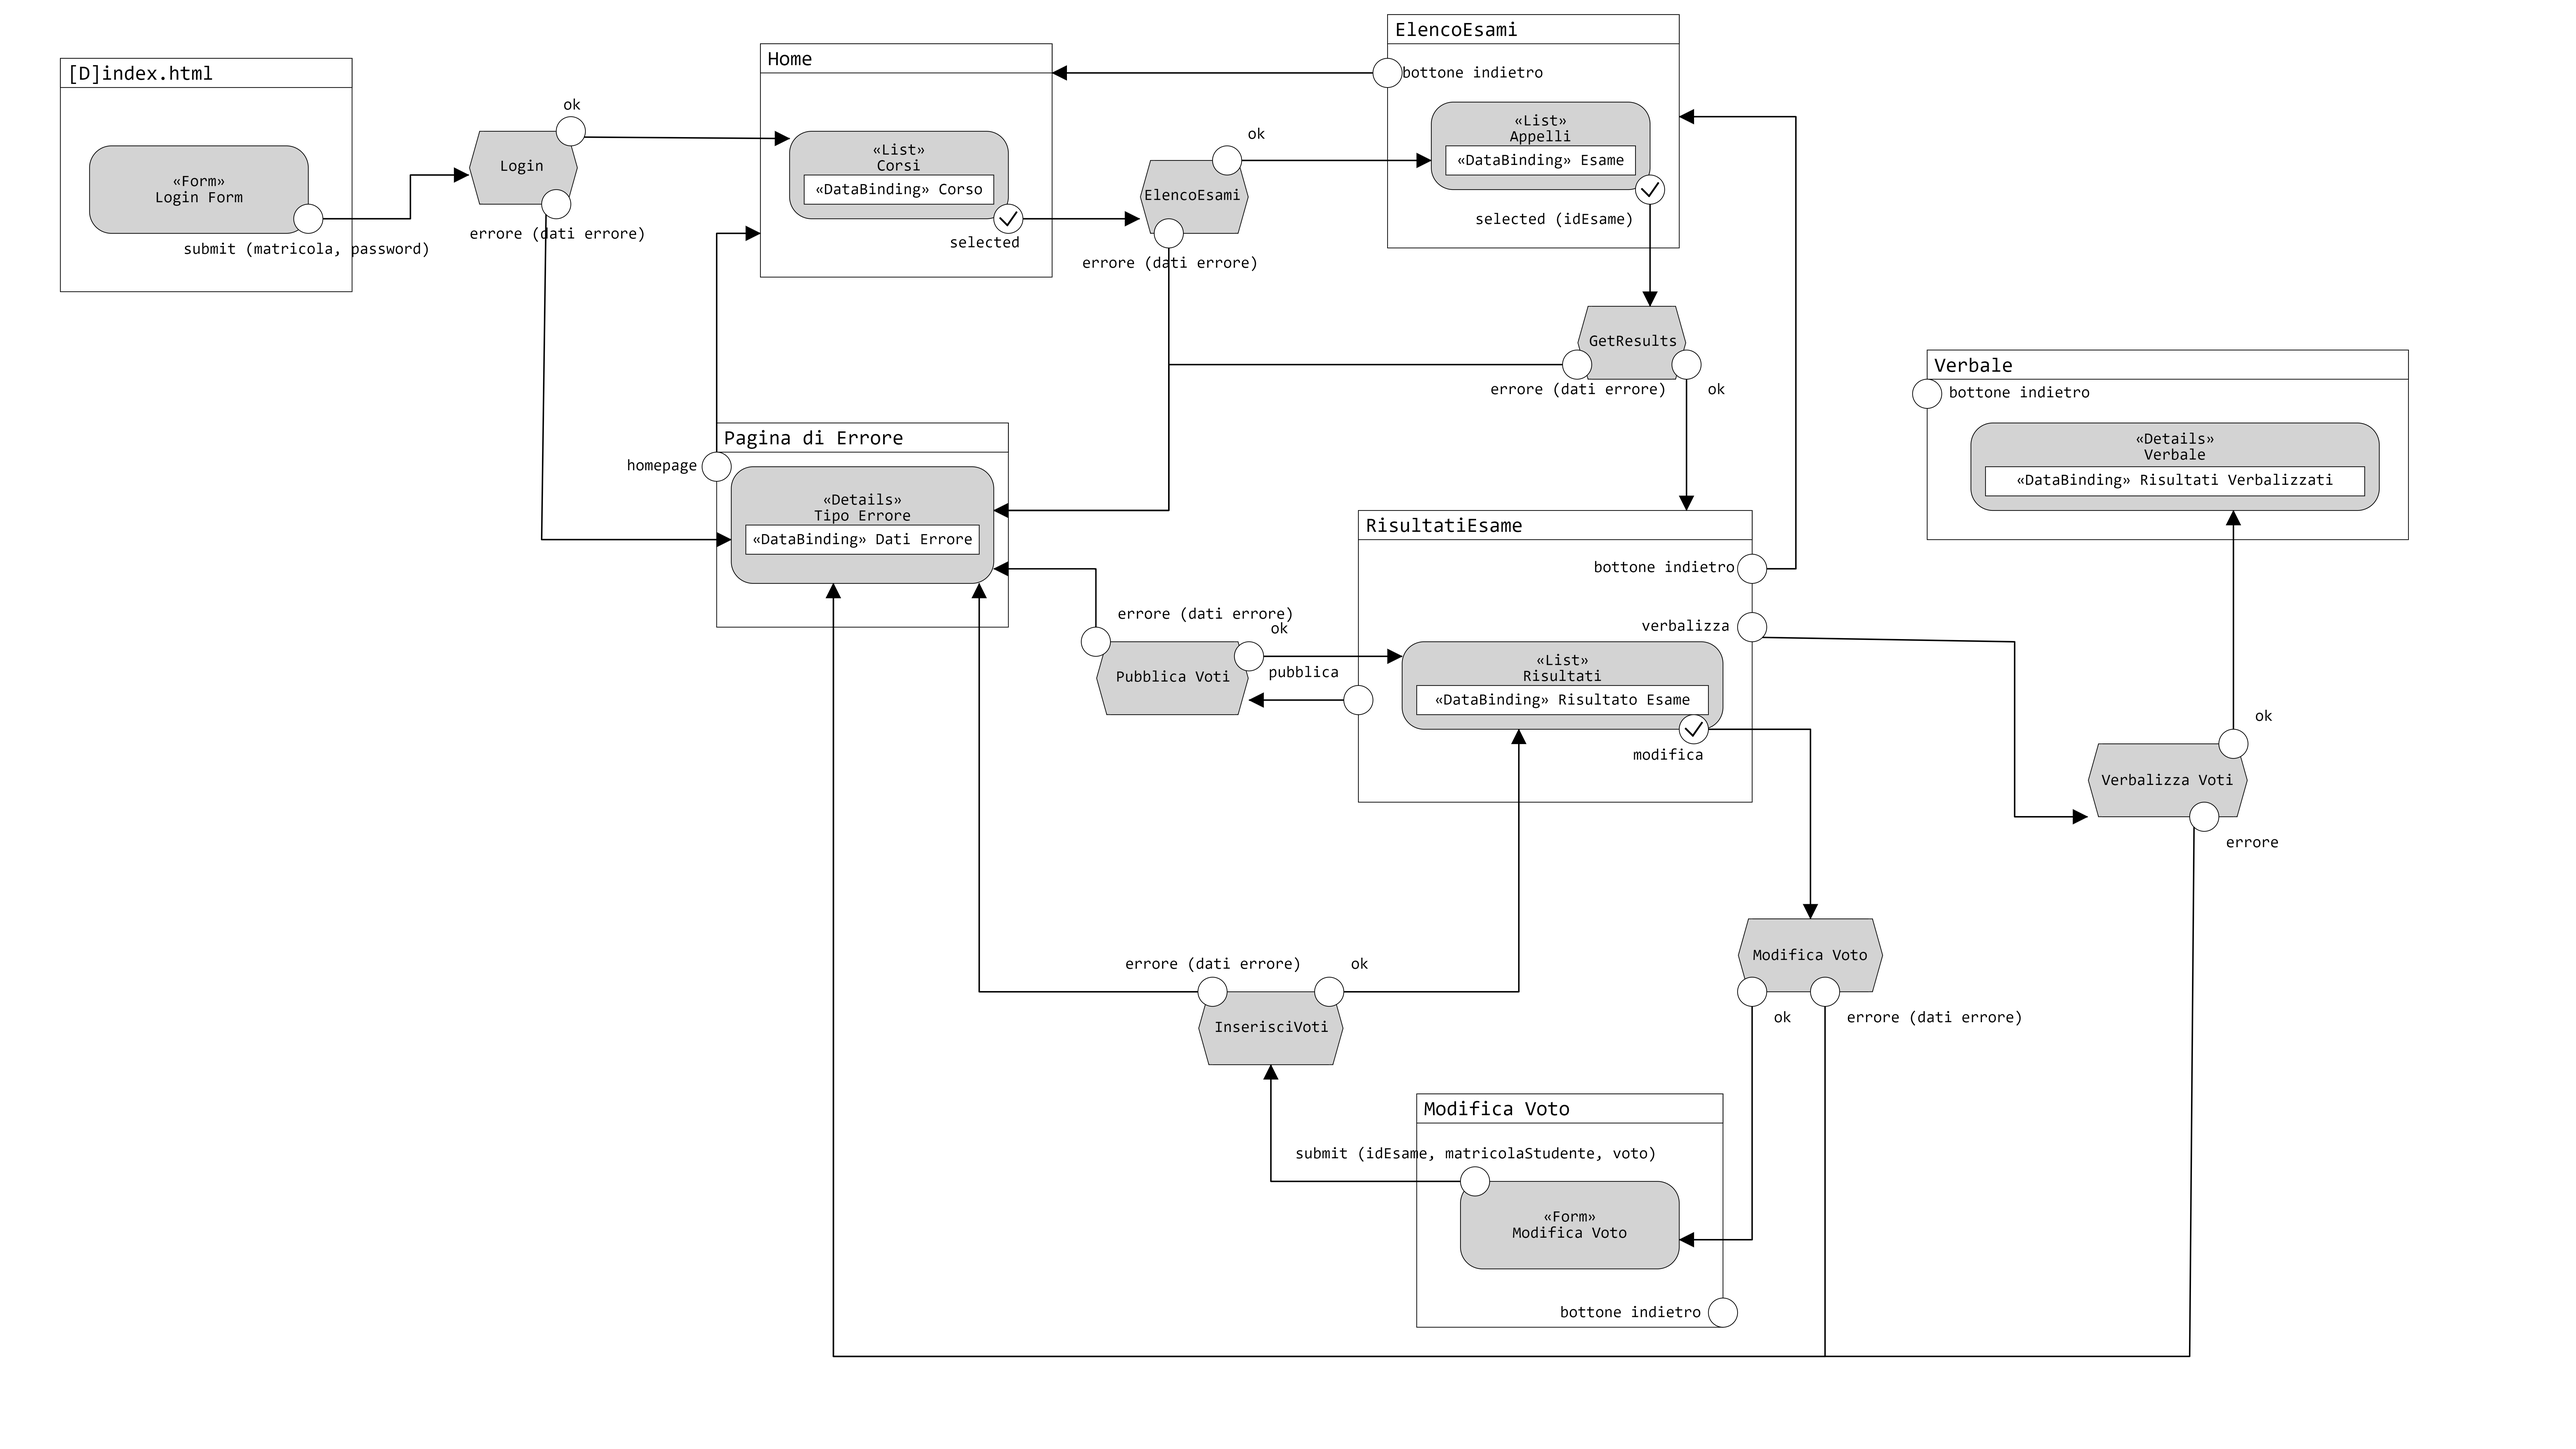
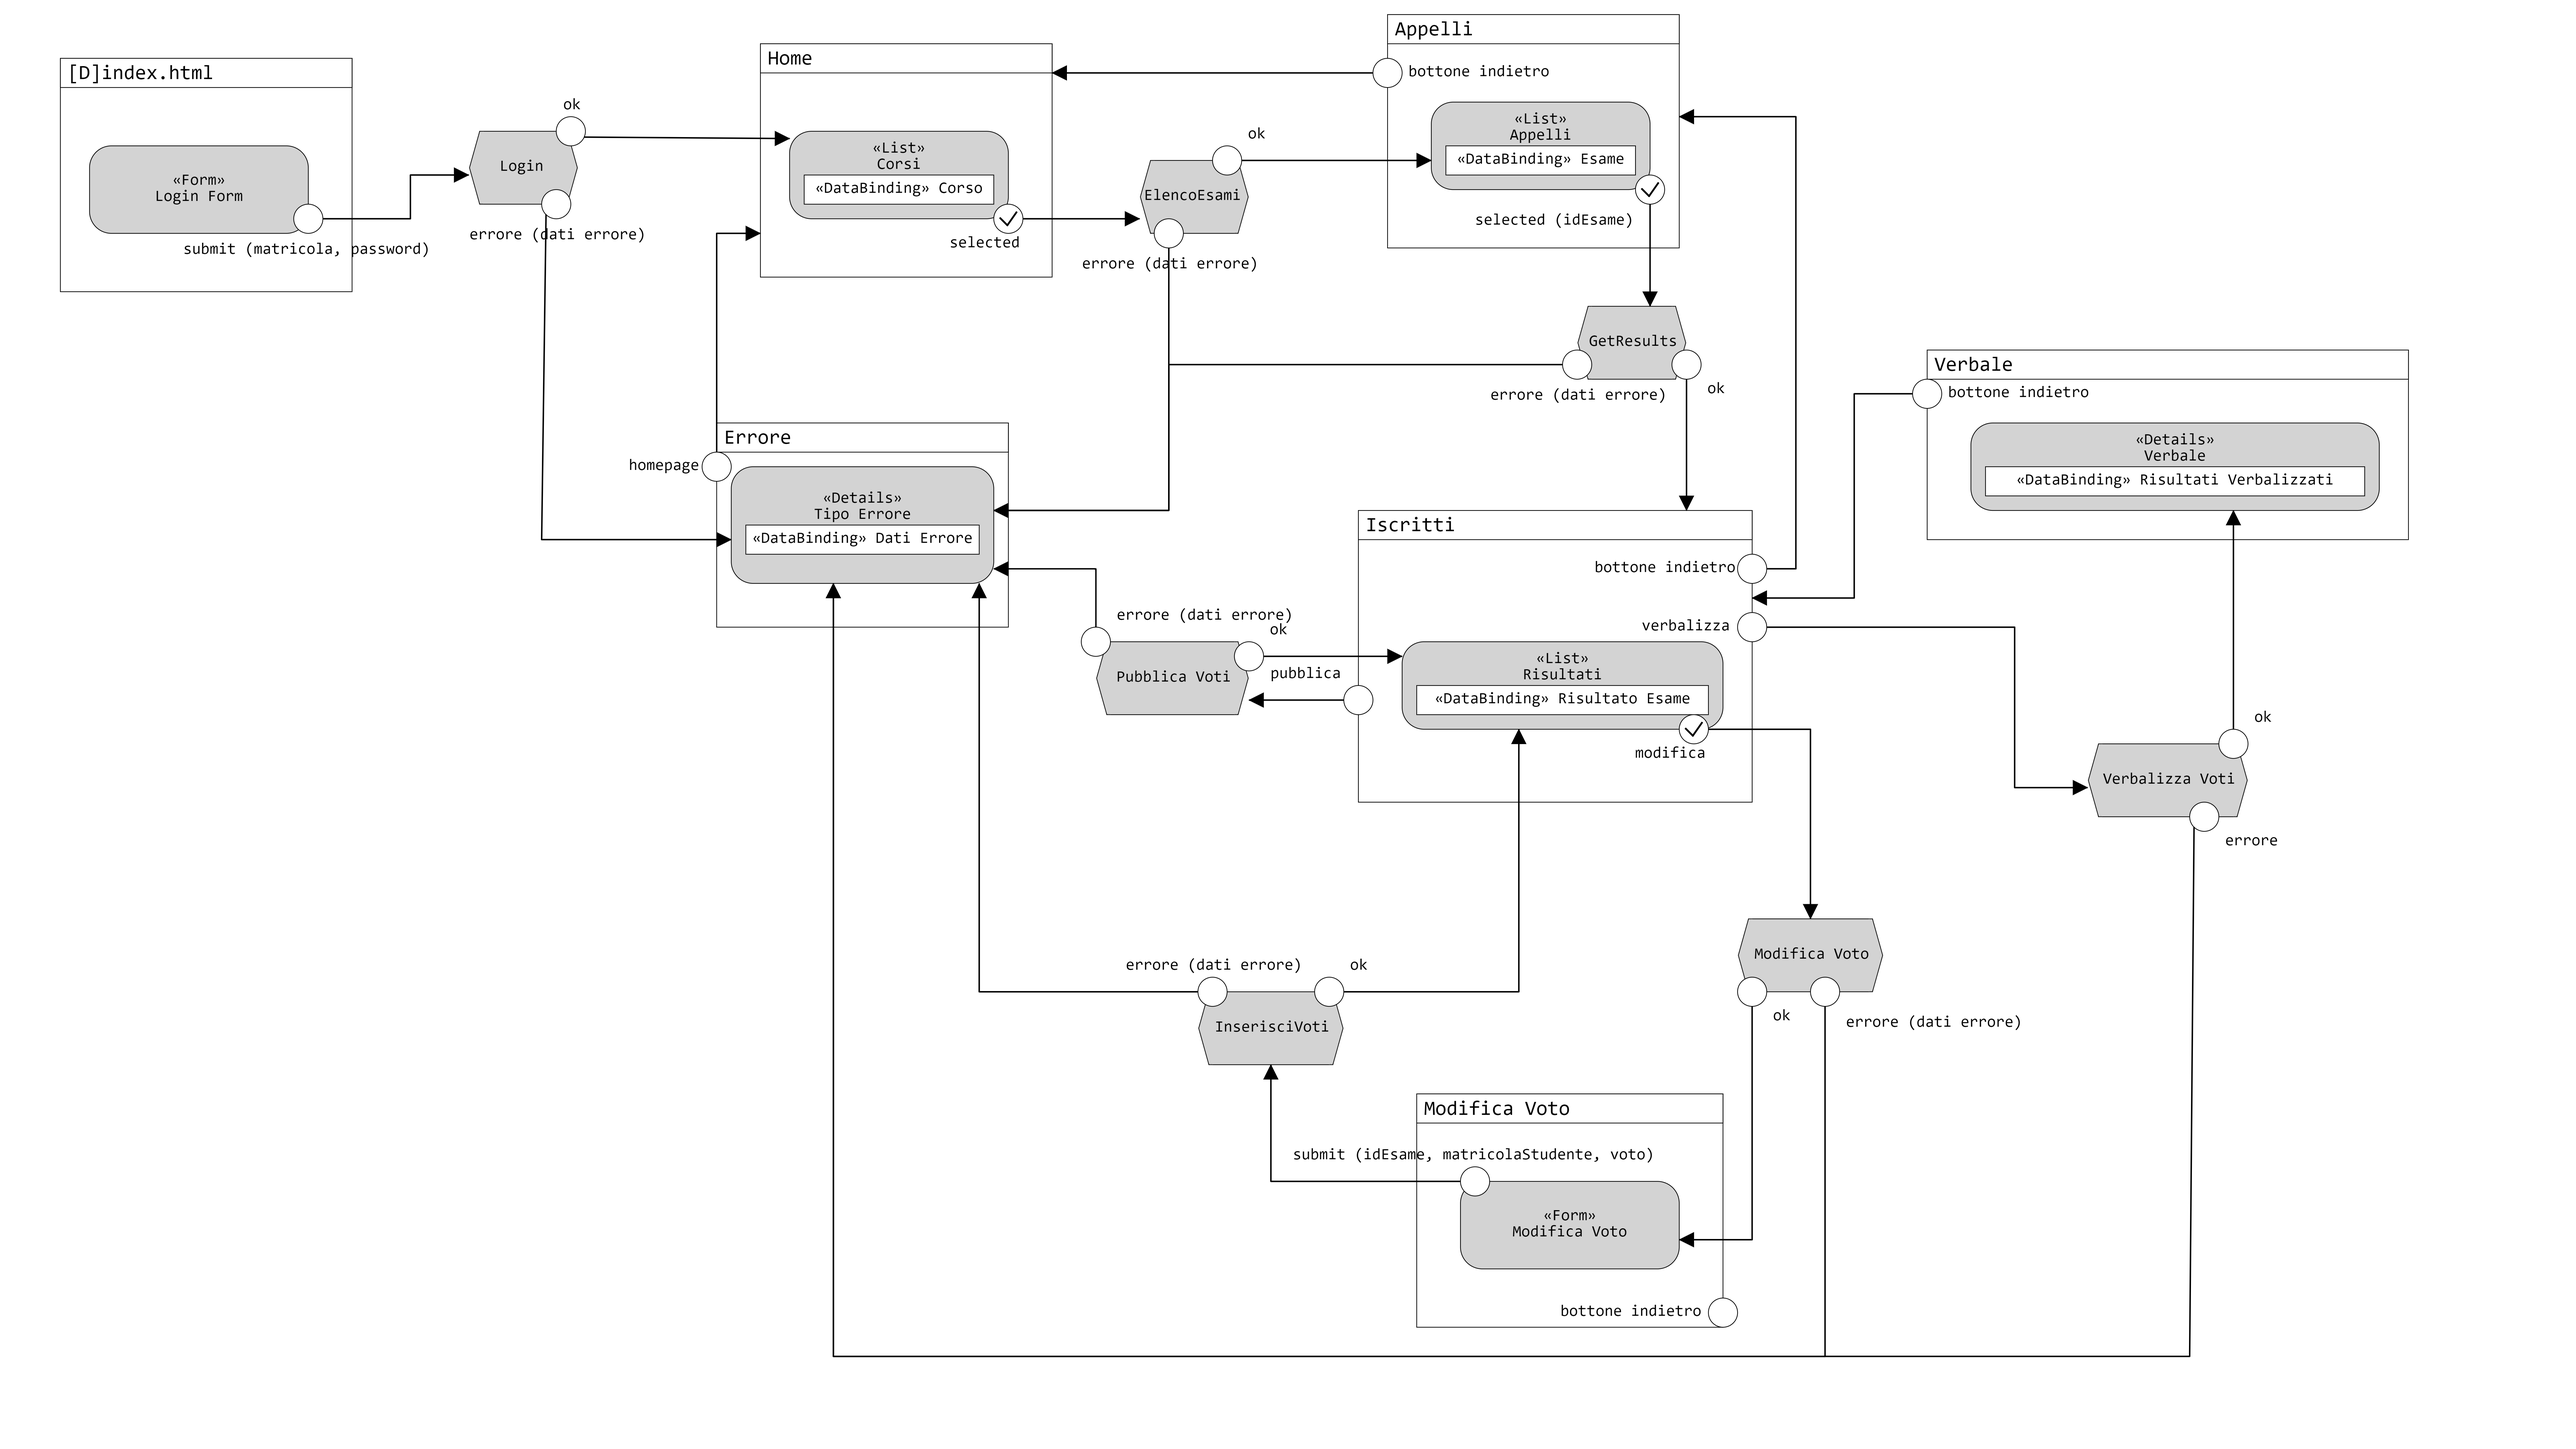
Refactoring

diff --git a/HTMLVersion/WebContent/Templates/RisultatiEsame.html b/HTMLVersion/WebContent/Templates/RisultatiEsame.html
@@ -1,7 +1,7 @@
 <!DOCTYPE html>
 <html xmlns:th="http://www.thymeleaf.org">
 <head>
-<title>Esito</title>
+<title th:text="${#strings.equals(session.user.ruolo,'teacher') ? 'Iscritti' : 'Esito'}">Esito</title>
   <meta http-equiv="Content-Type" content="text/html; charset=UTF-8" />
   <meta name="viewport" content="width=device-width, initial-scale=1">
   <link rel="stylesheet" href="https://maxcdn.bootstrapcdn.com/bootstrap/3.4.1/css/bootstrap.min.css">
@@ -11,8 +11,6 @@
   <link rel="stylesheet" href="https://cdnjs.cloudflare.com/ajax/libs/font-awesome/5.15.3/css/all.min.css">
 </head>
 <body>
-<!-- PROVA -->
-
   
 <nav class="navbar navbar-default navbar-fixed-top">
   <div class="navbar-header">
@@ -39,7 +37,7 @@
       <div class="jumbotron" id="title">
         <h3>
           <a th:href="@{/ElencoEsami(nomeCorso=${risultati[0].corso.nome})}"><i class="fas fa-chevron-left back-btn"></i></a>
-          Esito
+          <span th:text="${#strings.equals(session.user.ruolo,'teacher') ? 'Iscritti' : 'Esito'}"></span>
         </h3>
       </div>
       

diff --git a/HTMLVersion/WebContent/Templates/ElencoEsami.html b/HTMLVersion/WebContent/Templates/ElencoEsami.html
@@ -1,7 +1,7 @@
 <!DOCTYPE html>
 <html xmlns:th="http://www.thymeleaf.org">
 <head>
-<title>Home</title>
+<title>Appelli</title>
   <meta http-equiv="Content-Type" content="text/html; charset=UTF-8" />
   <meta name="viewport" content="width=device-width, initial-scale=1">
   <link rel="stylesheet" href="https://maxcdn.bootstrapcdn.com/bootstrap/3.4.1/css/bootstrap.min.css">
@@ -37,7 +37,7 @@
       <div class="jumbotron">
         <h3>
             <a th:href="@{/Home}"><i class="fas fa-chevron-left back-btn"></i></a>
-        	I tuoi esami
+        	Appelli
         </h3>
       </div>
       

diff --git a/HTMLVersion/WebContent/Templates/PaginaErrore.html b/HTMLVersion/WebContent/Templates/PaginaErrore.html
@@ -1,7 +1,7 @@
 <!DOCTYPE html>
 <html xmlns:th="http://www.thymeleaf.org">
 <head>
-<title>Home</title>
+<title>Errore</title>
   <meta http-equiv="Content-Type" content="text/html; charset=UTF-8" />
   <meta name="viewport" content="width=device-width, initial-scale=1">
   <link rel="stylesheet" href="https://maxcdn.bootstrapcdn.com/bootstrap/3.4.1/css/bootstrap.min.css">

diff --git a/HTMLVersion/WebContent/Templates/Home.html b/HTMLVersion/WebContent/Templates/Home.html
@@ -35,7 +35,7 @@
     </div>
     <div class="col-xs-10">
       <div class="jumbotron">
-        <h3>I tuoi corsi</h3>
+        <h3>Corsi</h3>
       </div>
       
       <!-- Static Accordion -->
